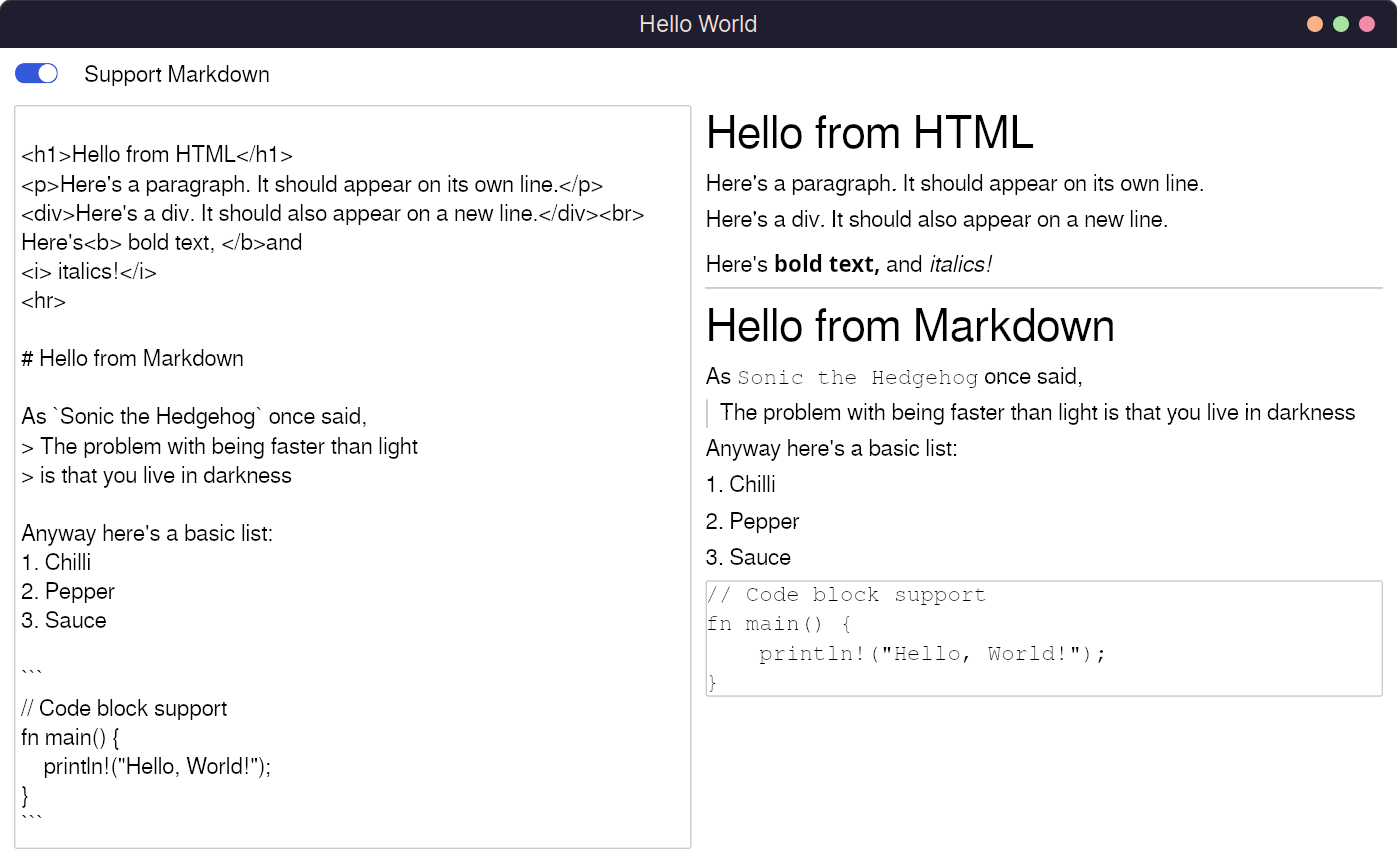
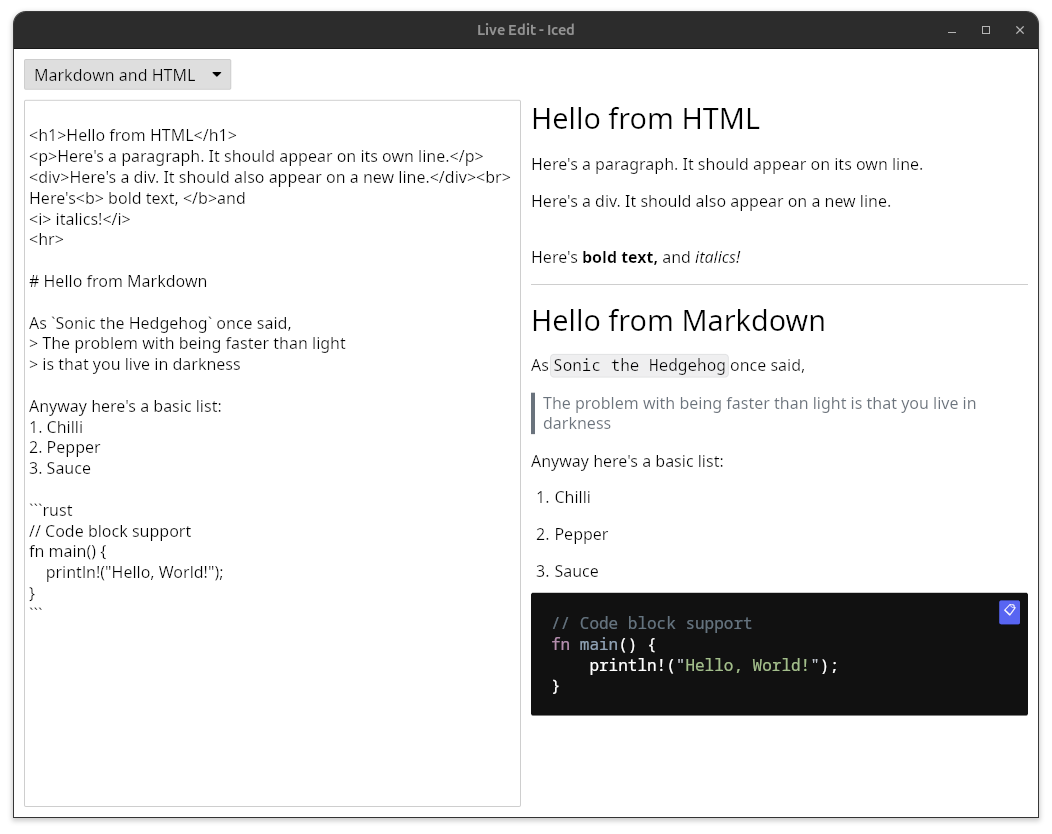
fix: update README and improve code formatting in examples
- Updated the README to reflect the new image path for the demo screenshot.
- Reformatted code in `llm_chat.rs` for better readability by adjusting the subscription logic.
- Reordered imports in `profile_static_mark.rs` for consistency and clarity.

diff --git a/examples/profile_static_mark.rs b/examples/profile_static_mark.rs
@@ -13,8 +13,8 @@ use std::time::Instant;
 use iced::{Element, Theme};
 use strimd::{Document, MarkState, MarkWidget, ParseProfile};
 use tracing::{debug, info, info_span};
-use tracing_subscriber::{layer::SubscriberExt, util::SubscriberInitExt};
 use tracing_subscriber::Layer;
+use tracing_subscriber::{layer::SubscriberExt, util::SubscriberInitExt};
 
 fn main() {
     let mut render_rounds = 100usize;
@@ -56,8 +56,7 @@ fn main() {
         let subscriber = tracing_subscriber::registry().with(fmt_layer);
 
         if tracy_enabled {
-            let tracy_layer =
-                tracing_tracy::TracyLayer::default().with_filter(env_filter.clone());
+            let tracy_layer = tracing_tracy::TracyLayer::default().with_filter(env_filter.clone());
             subscriber.with(tracy_layer).init();
         } else {
             subscriber.init();

diff --git a/examples/llm_chat.rs b/examples/llm_chat.rs
@@ -453,7 +453,8 @@ fn app_subscription(app: &App) -> Subscription<Message> {
     if app.busy {
         Subscription::batch([
             stream,
-            time::every(Duration::from_millis(STREAM_FLUSH_INTERVAL_MS)).map(|_| Message::FlushPending),
+            time::every(Duration::from_millis(STREAM_FLUSH_INTERVAL_MS))
+                .map(|_| Message::FlushPending),
         ])
     } else {
         stream

diff --git a/README.md b/README.md
@@ -8,7 +8,7 @@
 
 Hard fork of [frostmark](https://github.com/Mrmayman/frostmark). Same iced widget surface where applicable; new headless APIs and a different Markdown/HTML stack — see [Provenance](#provenance--acknowledgments).
 
-![(Demo showing HTML and Markdown together)](https://github.com/Mrmayman/frostmark/raw/main/examples/assets/live_edit.png)
+![(Demo showing HTML and Markdown together)](https://github.com/FerrisMind/StriMD/raw/main/examples/assets/live_edit.png)
 
 ---
 